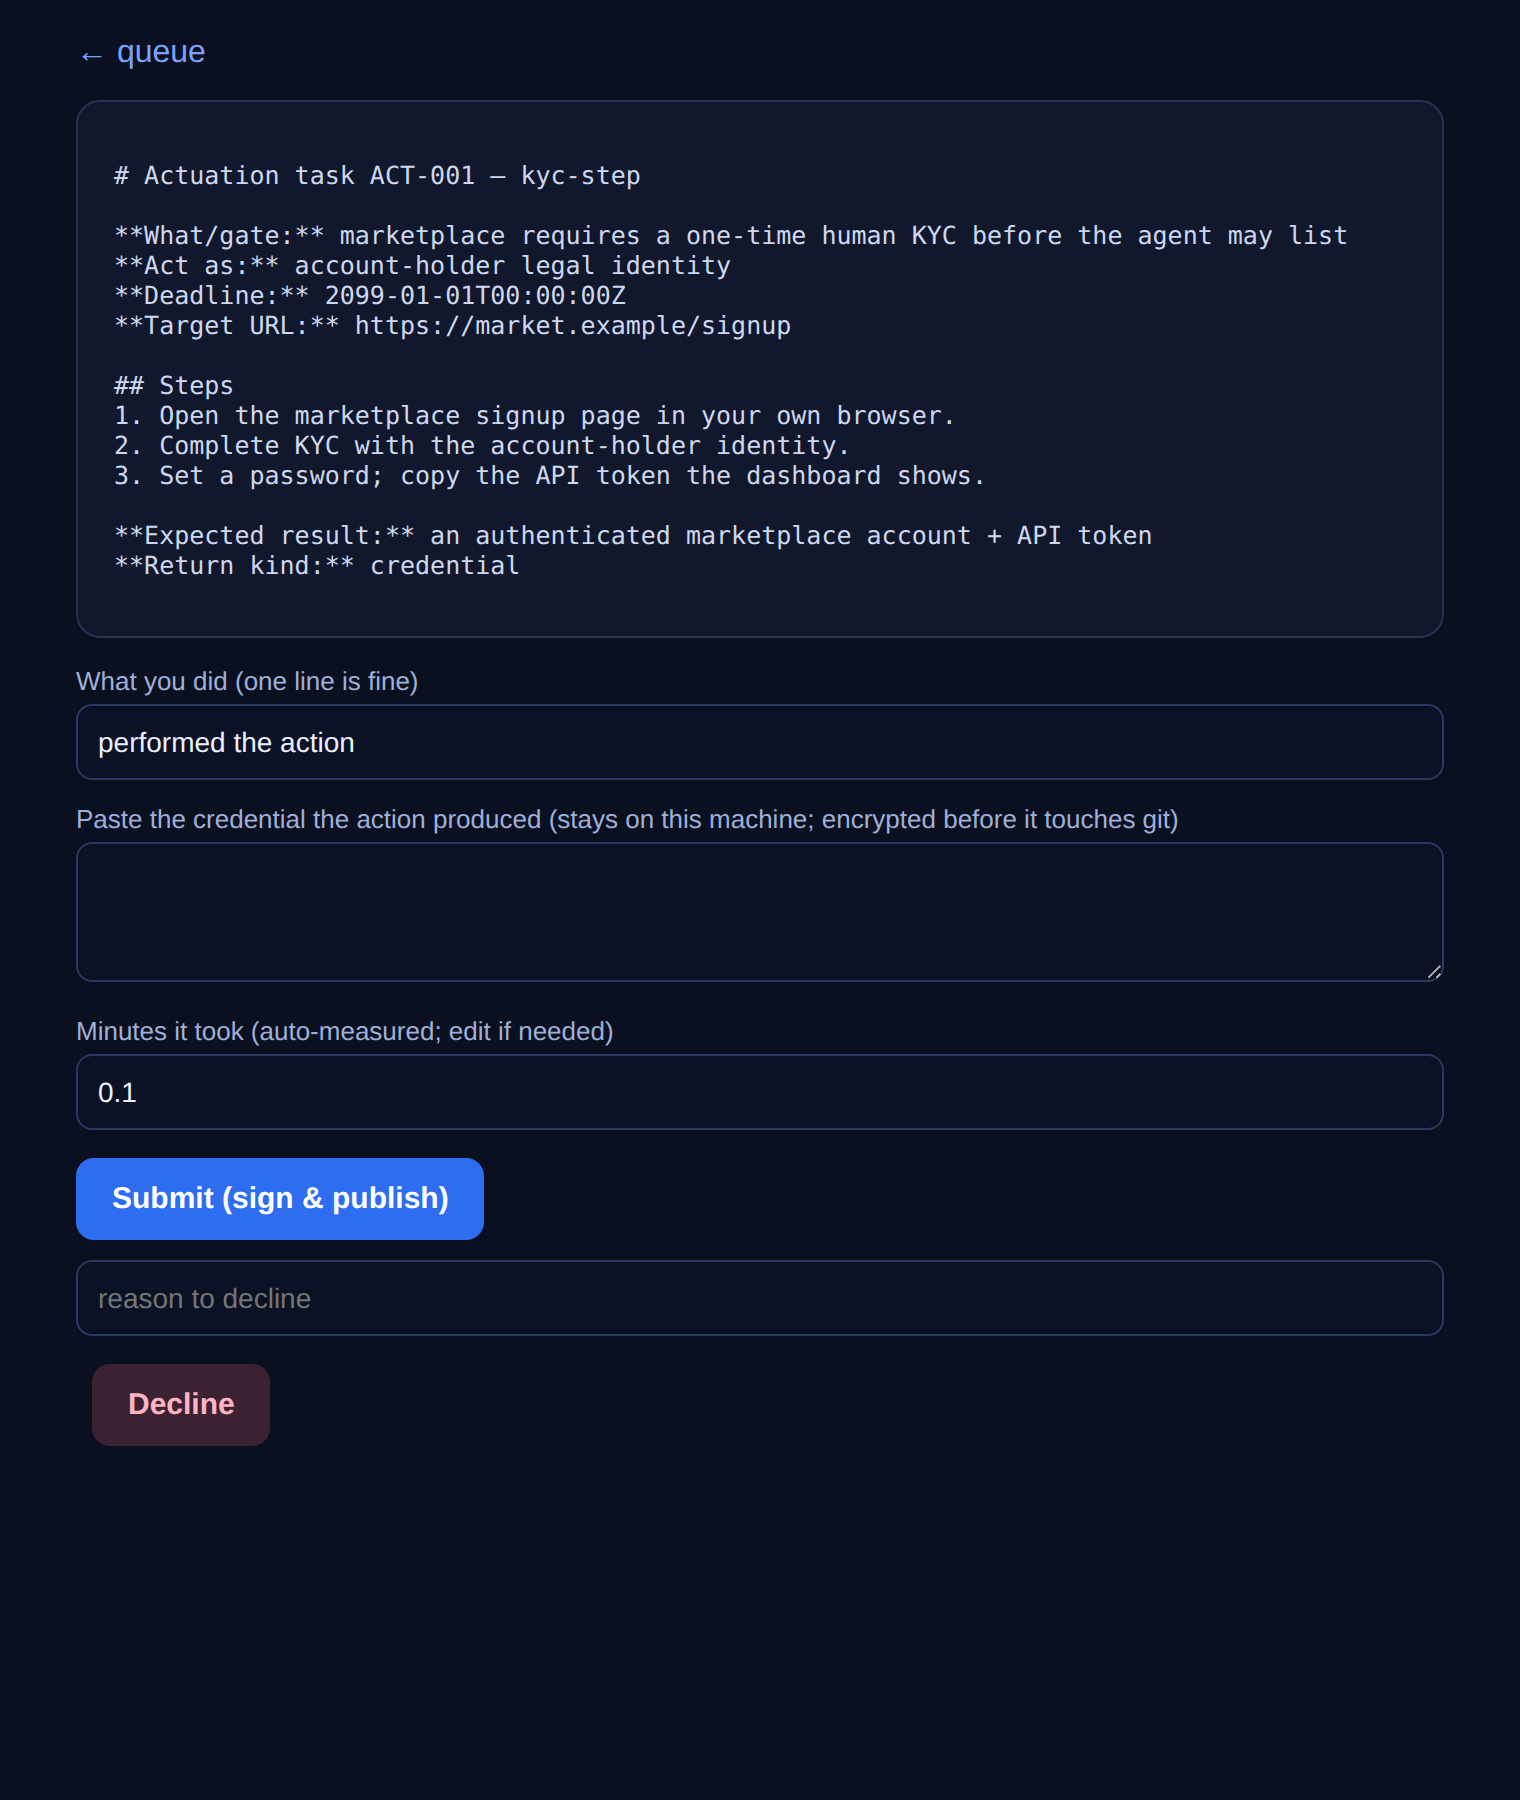
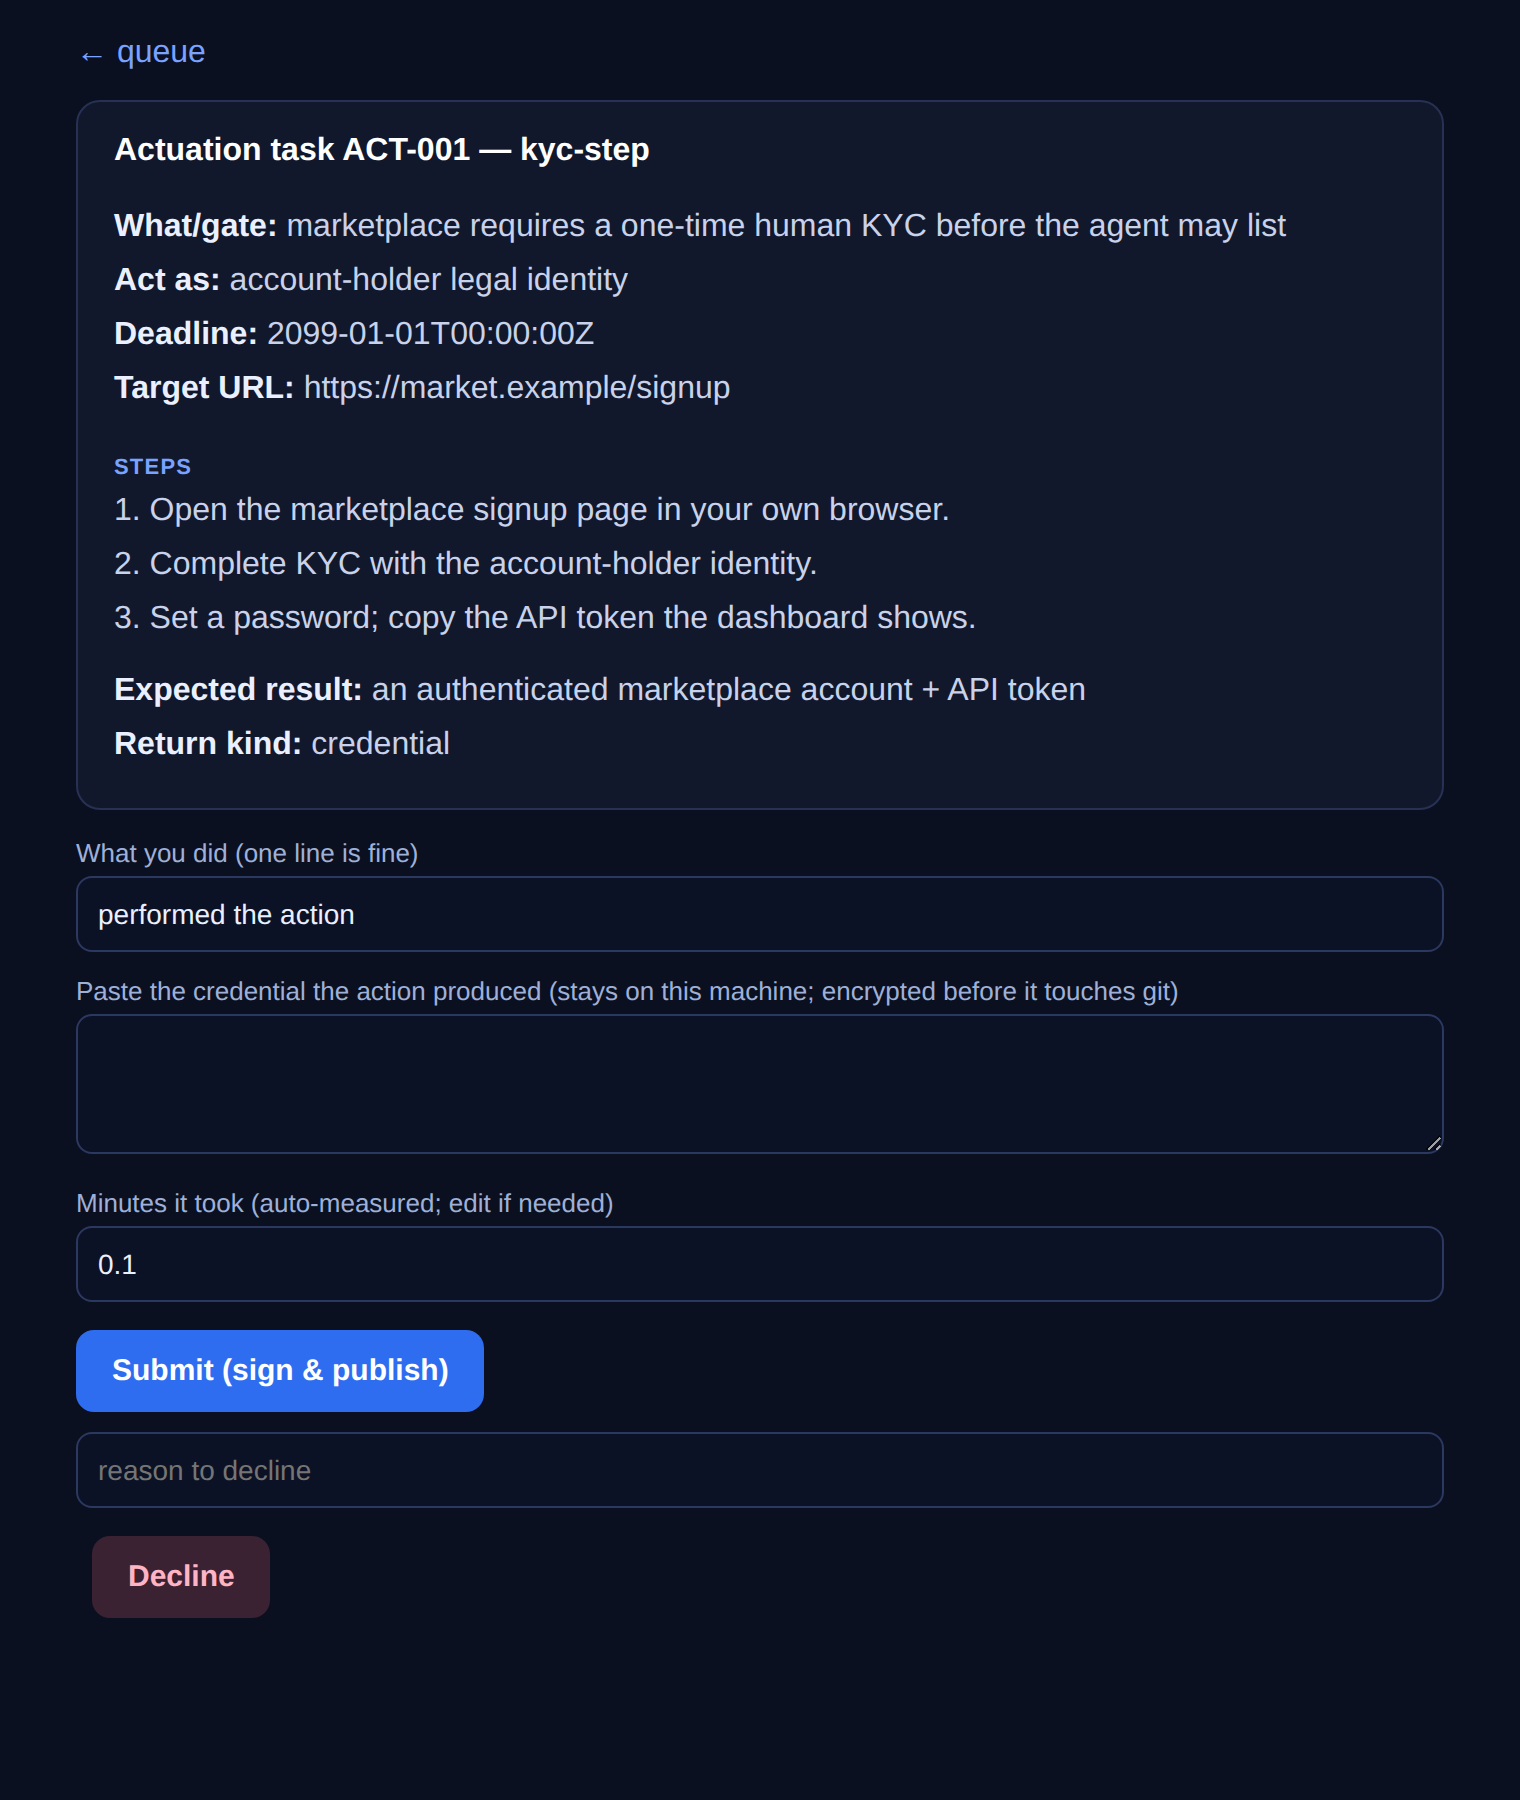
polish(actuate): render the card markdown in the web form (not raw ** / ##)
The fulfill form dumped the card's markdown source into a <pre>, so the operator
saw literal `**What/gate:**` and `##`. Render it to safe HTML instead: bold
key/value lines, a STEPS header, numbered steps. Each line is html.escaped before
the markdown transform, so an agent-controlled field still cannot inject markup.
Screenshots refreshed. Harness 25/0, sim 163/0, compile clean.

Claude-Session: https://claude.ai/code/session_0181HfWoG37DqC8uqAedQwi9

Changed region(s): [[0.0309, 0.0622, 0.8658, 0.9022], [0.7112, 0.28, 0.7421, 0.3111]]

diff --git a/bin/actuate_fulfill_server.py b/bin/actuate_fulfill_server.py
@@ -25,6 +25,7 @@ from __future__ import annotations
 import argparse
 import html
 import os
+import re
 import subprocess
 import sys
 import tempfile
@@ -88,7 +89,10 @@ _PAGE = """<!doctype html><meta charset=utf-8><meta name=viewport content="width
 font-family:-apple-system,Segoe UI,Roboto,sans-serif;padding:18px;max-width:720px;margin:0 auto}}
 h1{{font-size:17px;color:#fff}}a{{color:#7aa2ff;text-decoration:none}}
 .card{{background:#12182b;border:1px solid #263154;border-radius:12px;padding:16px 18px;margin:14px 0}}
-.k{{color:#7ee787}}.h2{{color:#7aa2ff;font-weight:700;text-transform:uppercase;font-size:11px;letter-spacing:.6px;margin:12px 0 4px}}
+.h1{{color:#fff;font-weight:700;font-size:16px;margin-bottom:8px}}
+.h2{{color:#7aa2ff;font-weight:700;text-transform:uppercase;font-size:11px;letter-spacing:.6px;margin:12px 0 4px}}
+.ln{{margin:3px 0;line-height:1.5}}.ln b{{color:#eaf0ff}}
+.code{{font-family:ui-monospace,monospace;font-size:12px;color:#8ee6b8;white-space:pre}}.sp{{height:6px}}
 b{{color:#eaf0ff}}label{{display:block;margin:12px 0 4px;color:#9fb0d8;font-size:13px}}
 input,textarea{{width:100%;background:#0c1226;border:1px solid #2b385f;border-radius:8px;color:#eaf0ff;
 padding:10px;font-size:14px;font-family:inherit}}textarea{{min-height:70px;font-family:ui-monospace,monospace}}
@@ -158,7 +162,7 @@ class Handler(BaseHTTPRequestHandler):
                               "<a href=/>&larr; queue</a>", 404)
         _OPENED.setdefault(tid, time.monotonic())   # start the human-minutes clock
         rk = task.get("return_kind", "none")
-        card = html.escape(_card_to_html_source(task))
+        card = _card_html(task)
         ret_field = ""
         if rk == "credential":
             ret_field = ('<label>Paste the credential the action produced (stays on this machine; '
@@ -172,7 +176,7 @@ class Handler(BaseHTTPRequestHandler):
             p3 = ('<label>P3 name-test ruling (required for money-moving; ≥ 20 chars) — is this '
                   'transaction acceptable on the account holder’s statement?</label>'
                   '<textarea name=consent_ruling></textarea>')
-        body = (f'<a href=/>&larr; queue</a><div class=card><pre>{card}</pre></div>'
+        body = (f'<a href=/>&larr; queue</a><div class=card>{card}</div>'
                 f'<form method=post action="/fulfill"><input type=hidden name=id value="{html.escape(tid)}">'
                 f'<input type=hidden name=return_kind value="{html.escape(rk)}">'
                 '<label>What you did (one line is fine)</label>'
@@ -214,10 +218,26 @@ class Handler(BaseHTTPRequestHandler):
                    "<a href=/>&larr; back to the queue</a>")
 
 
-def _card_to_html_source(task: dict) -> str:
-    """The rendered operator card (reuses actuate._render_card for identical wording/scrubbing);
-    the CLI recipe is omitted since the form itself provides the fulfill/decline controls."""
-    return actuate._render_card(task, include_cli=False)
+def _card_html(task: dict) -> str:
+    """Render the operator card's markdown (from actuate._render_card, already control-char-scrubbed)
+    to safe HTML -- headers, bold key/value lines, numbered steps -- so the operator sees a clean
+    card, not raw `**` and `##`. Every line is html.escaped before the markdown transform, so an
+    agent-controlled field cannot inject markup."""
+    out = []
+    for ln in actuate._render_card(task, include_cli=False).splitlines():
+        e = html.escape(ln)
+        if ln.startswith("# "):
+            out.append(f"<div class=h1>{html.escape(ln[2:])}</div>")
+        elif ln.startswith("## "):
+            out.append(f"<div class=h2>{html.escape(ln[3:])}</div>")
+        elif ln.startswith("    "):
+            out.append(f"<div class=code>{e[4:] or '&nbsp;'}</div>")
+        elif not ln.strip():
+            out.append("<div class=sp></div>")
+        else:
+            bolded = re.sub(r"[*][*](.+?)[*][*]", r"<b>\1</b>", e)
+            out.append(f"<div class=ln>{bolded}</div>")
+    return "".join(out)
 
 
 def main() -> int:
